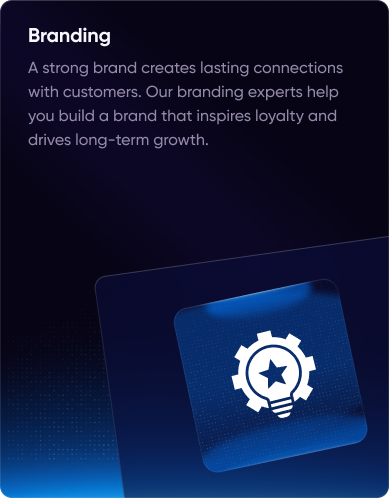
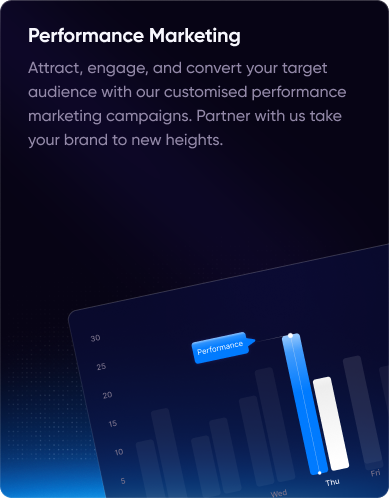
code pushed

diff --git a/src/components/WhatWeDo.jsx b/src/components/WhatWeDo.jsx
@@ -1,67 +1,64 @@
-import FadeSection from './FadeSection'
+import FadeSection from "./FadeSection";
+import perfImg from "../assets/images/home/what-we-do/performance-marketing.png";
+import targetImg from "../assets/images/home/what-we-do/retargeting.png";
+import brandImg from "../assets/images/home/what-we-do/branding.png";
 
 const SERVICES = [
   {
-    title: 'Performance Marketing',
-    desc: "Performance marketing is a game-changer. We'll help your audience with our customized marketing campaigns. Partner with us to take your brand to new heights.",
-    icon: (
-      <svg width="52" height="52" viewBox="0 0 52 52" fill="none">
-        <rect x="6" y="26" width="8" height="20" rx="2" fill="#1E40AF" opacity="0.8"/>
-        <rect x="18" y="18" width="8" height="28" rx="2" fill="#2563EB"/>
-        <rect x="30" y="10" width="8" height="36" rx="2" fill="#3B82F6"/>
-        <rect x="42" y="6" width="4" height="40" rx="2" fill="#60A5FA"/>
-        <polyline points="6,30 14,20 26,24 38,12 46,8" stroke="#93C5FD" strokeWidth="1.5" fill="none"/>
-      </svg>
-    ),
+    title: "Performance Marketing",
+    desc: "Attract, engage, and convert your target audience with our customised performance marketing campaigns. Partner with us to take your brand to new heights.",
+    img: perfImg,
   },
   {
-    title: 'Targeting',
-    desc: "Targeting is a game-changer. We'll help you stay connected with interested audiences and boost your ROI with expert retargeting strategies.",
-    icon: (
-      <svg width="52" height="52" viewBox="0 0 52 52" fill="none">
-        <circle cx="26" cy="26" r="18" stroke="#2563EB" strokeWidth="1.5"/>
-        <circle cx="26" cy="26" r="11" stroke="#3B82F6" strokeWidth="1.5"/>
-        <circle cx="26" cy="26" r="4" fill="#60A5FA"/>
-        <path d="M26 8v6M26 38v6M8 26h6M38 26h6" stroke="#2563EB" strokeWidth="1.5"/>
-        <circle cx="36" cy="16" r="5" fill="#1E3A8A" stroke="#3B82F6" strokeWidth="1"/>
-        <path d="M34 16l1.5 1.5L38 14" stroke="#60A5FA" strokeWidth="1.2"/>
-      </svg>
-    ),
+    title: "Retargeting",
+    desc: "Retargeting is a game-changer. We'll help you stay connected with interested prospects and boost your ROI with expert retargeting strategies.",
+    img: targetImg,
   },
   {
-    title: 'Branding',
-    desc: "A strong brand creates lasting connections with customers. Let our branding experts help you build a brand that resonates, inspires and drives growth.",
-    icon: (
-      <svg width="52" height="52" viewBox="0 0 52 52" fill="none">
-        <circle cx="26" cy="26" r="16" stroke="#2563EB" strokeWidth="1.5" strokeDasharray="4 2"/>
-        <circle cx="26" cy="26" r="8" fill="#1E3A8A"/>
-        <path d="M22 22l8 8M30 22l-8 8" stroke="#60A5FA" strokeWidth="1.5"/>
-        <circle cx="26" cy="26" r="3" fill="#3B82F6"/>
-      </svg>
-    ),
+    title: "Branding",
+    desc: "A strong brand creates lasting connections with customers. Our branding experts help you build a brand that inspires loyalty and drives long-term growth.",
+    img: brandImg,
   },
-]
+];
 
 export default function WhatWeDo() {
   return (
     <FadeSection>
       <section className="py-20 px-4">
         <div className="max-w-6xl mx-auto">
-          <h2 className="font-display text-4xl md:text-5xl font-bold text-center text-white mb-14">What We Do</h2>
+          <h2 className="font-display text-4xl md:text-5xl font-bold text-center text-white mb-14">
+            What We Do
+          </h2>
+
           <div className="grid grid-cols-1 md:grid-cols-3 gap-6">
             {SERVICES.map((s, i) => (
-              <div key={i} className="card-glow rounded-2xl p-6 flex flex-col gap-4">
-                <div className="h-36 flex items-center justify-center rounded-xl"
-                  style={{background:'linear-gradient(135deg,rgba(15,30,80,0.8),rgba(5,10,40,0.9))'}}>
-                  {s.icon}
+              <div
+                key={i}
+                className="rounded-2xl overflow-hidden flex flex-col"
+                style={{
+                  background:
+                    "linear-gradient(160deg, #0d1a3a 0%, #070d20 100%)",
+                  border: "1px solid rgba(0,80,200,0.25)",
+                  boxShadow: "0 4px 30px rgba(0,0,0,0.4)",
+                }}
+              >
+                <div className="flex-1 min-h-[220px]">
+                  <img
+                    src={s.img}
+                    alt={s.title}
+                    style={{
+                      width: "100%",
+                      height: "100%",
+                      objectFit: "cover",
+                      display: "block",
+                    }}
+                  />
                 </div>
-                <h3 className="font-display font-semibold text-lg text-white">{s.title}</h3>
-                <p className="text-gray-400 text-sm leading-relaxed">{s.desc}</p>
               </div>
             ))}
           </div>
         </div>
       </section>
     </FadeSection>
-  )
+  );
 }
